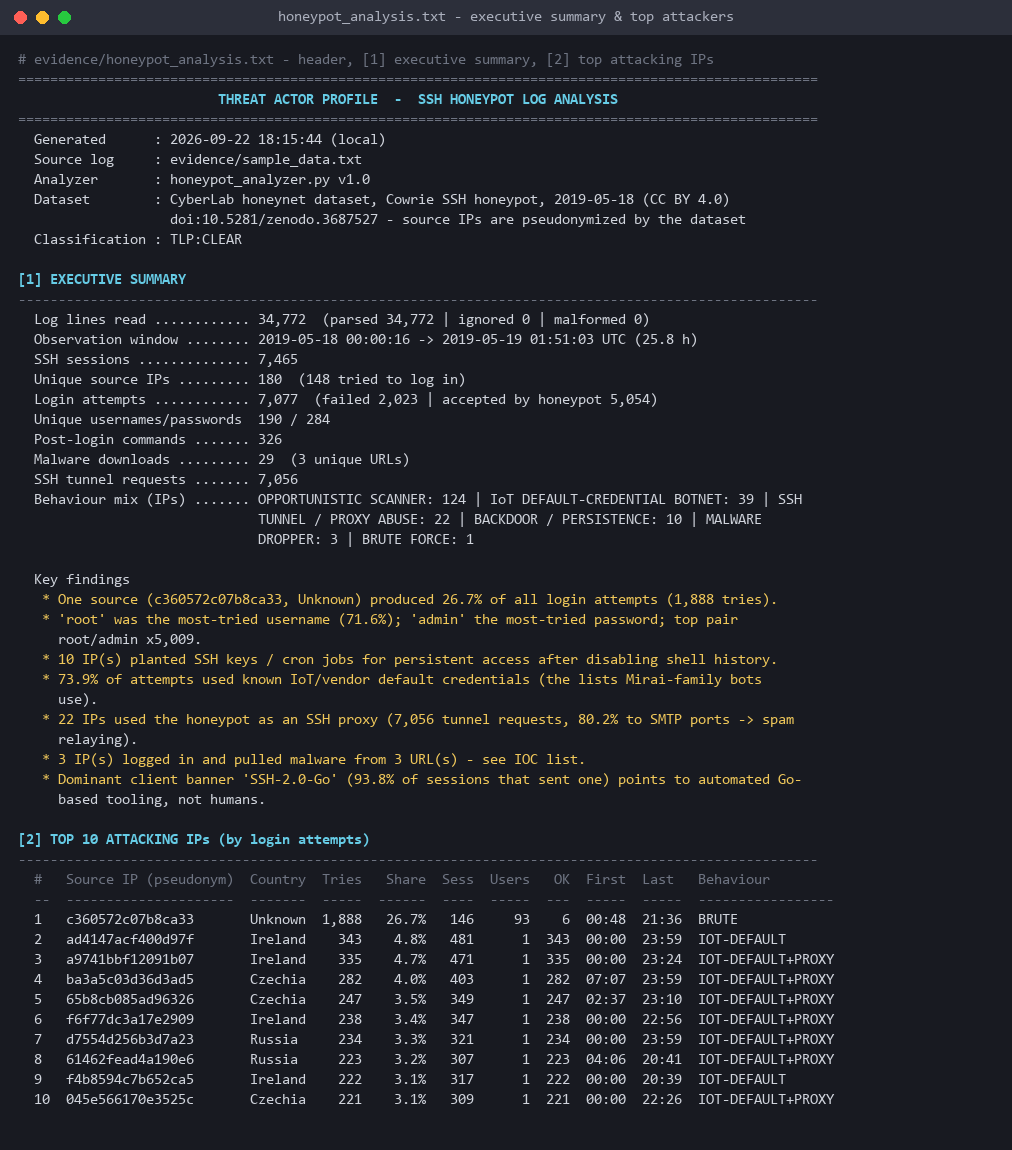
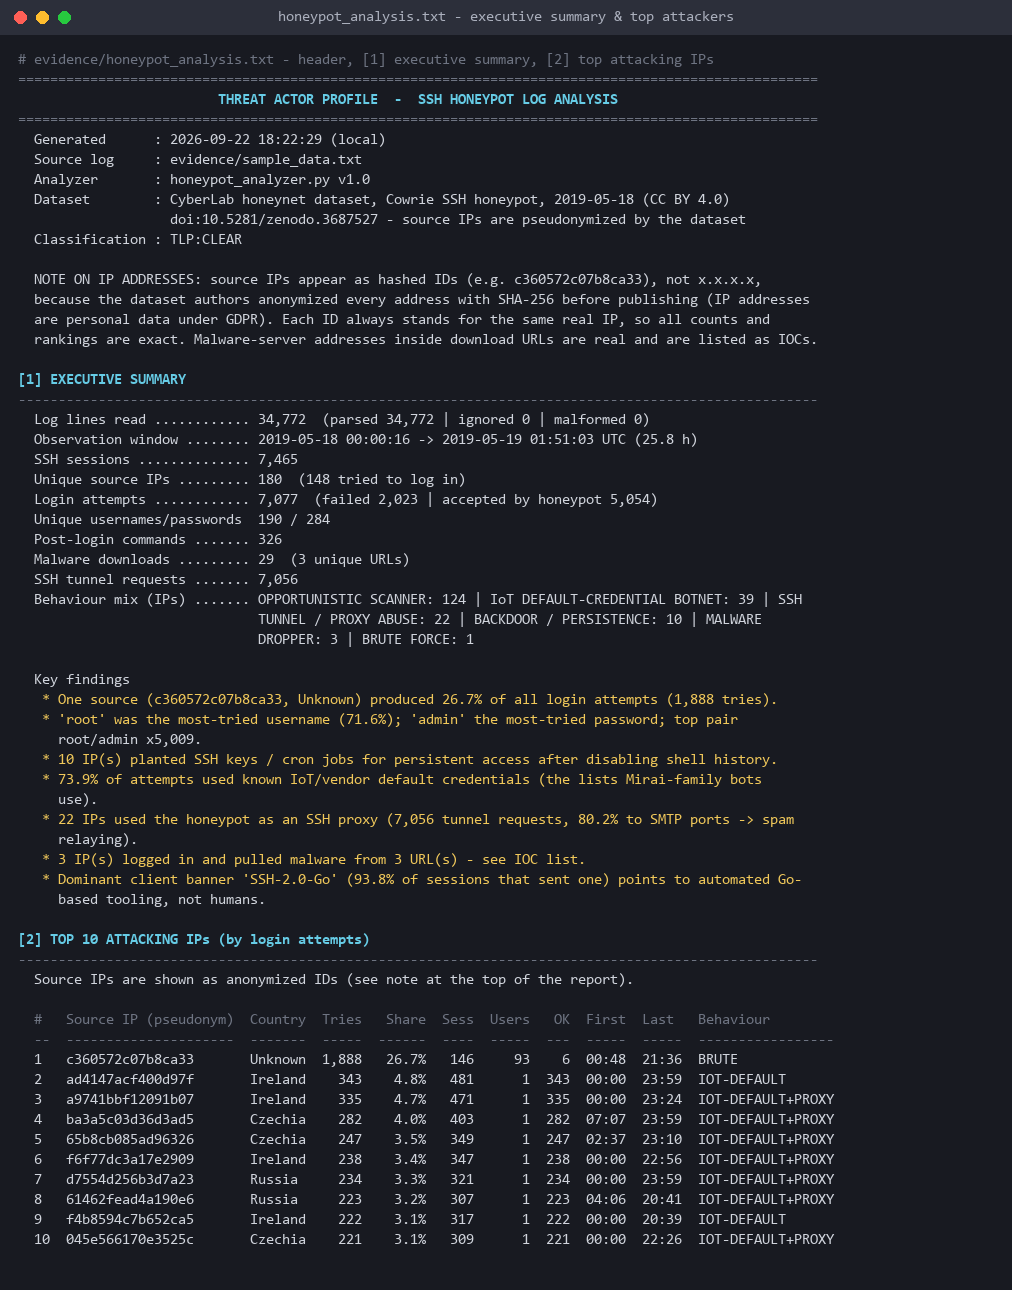
Explain anonymized source IPs in report, console and README
The CyberLab dataset hashes every source IP with SHA-256 (GDPR), so IPs show
as IDs like c360572c07b8ca33 instead of x.x.x.x. The analyzer now detects
hashed IDs and prints a note; real IPv4/IPv6 input shows no note.

Changed region(s): [[0.0, 0.0, 0.7964, 0.9739], [0.5208, 0.7609, 0.8271, 0.9739]]

diff --git a/src/honeypot_analyzer.py b/src/honeypot_analyzer.py
@@ -393,6 +393,11 @@ def counter_table(lines, title, counter, total, top, label, fmt=str):
     lines.append("")
 
 
+def looks_like_ip(value):
+    """True for a dotted IPv4 or an IPv6 address, False for a hashed pseudonym."""
+    return bool(re.fullmatch(r"\d{1,3}(\.\d{1,3}){3}|[0-9A-Fa-f:]*:[0-9A-Fa-f:.]+", value))
+
+
 def when(ts):
     return ts.strftime("%Y-%m-%d %H:%M:%S")
 
@@ -431,6 +436,14 @@ def build_report(events, stats, actors, campaigns, src, top):
     L.append("  Dataset        : CyberLab honeynet dataset, Cowrie SSH honeypot, 2019-05-18 (CC BY 4.0)")
     L.append("                   doi:10.5281/zenodo.3687527 - source IPs are pseudonymized by the dataset")
     L.append("  Classification : TLP:CLEAR")
+    if not looks_like_ip(events[0].ip):
+        L.append("")
+        L.extend(textwrap.wrap(
+            f"  NOTE ON IP ADDRESSES: source IPs appear as hashed IDs (e.g. {attackers[0].ip}), not "
+            "x.x.x.x, because the dataset authors anonymized every address with SHA-256 before "
+            "publishing (IP addresses are personal data under GDPR). Each ID always stands for the "
+            "same real IP, so all counts and rankings are exact. Malware-server addresses inside "
+            "download URLs are real and are listed as IOCs.", WIDTH, subsequent_indent="  "))
 
     # 1 ---------------------------------------------------------------
     section(L, "[1] EXECUTIVE SUMMARY")
@@ -483,6 +496,9 @@ def build_report(events, stats, actors, campaigns, src, top):
 
     # 2 ---------------------------------------------------------------
     section(L, f"[2] TOP {top} ATTACKING IPs (by login attempts)")
+    if not looks_like_ip(attackers[0].ip):
+        L.append("  Source IPs are shown as anonymized IDs (see note at the top of the report).")
+        L.append("")
     rows = []
     for i, a in enumerate(attackers[:top], 1):
         rows.append((i, a.ip, a.country[:14], f"{a.attempts:,}", pct(a.attempts, total_attempts),
@@ -728,6 +744,9 @@ def console_summary(stats, actors, report_path, top=5):
              f"{stats['lines']:,}", f"{stats['parsed']:,}", stats["ignored"], stats["malformed"])
     log.info("%s login attempts from %d IPs", f"{total:,}", len(attackers))
     log.info("")
+    if attackers and not looks_like_ip(attackers[0].ip):
+        log.info("Note: source IPs are anonymized IDs (SHA-256 by the dataset authors), not x.x.x.x")
+        log.info("")
     log.info("TOP ATTACKING IPs           TOP USERNAMES          TOP PASSWORDS")
     ips = [f"{a.ip} {a.attempts:>5,}" for a in attackers[:top]]
     us = [f"{(u or '<empty>')[:14]:<14} {n:>5,}" for u, n in users.most_common(top)]

diff --git a/README.md b/README.md
@@ -14,6 +14,9 @@ The results are written to a **Threat Actor Profile** report, [`evidence/honeypo
 The input is **real attacker traffic**, not made-up data: one day (2019-05-18) of the public, citable [CyberLab honeynet dataset](https://doi.org/10.5281/zenodo.3687527), captured by Cowrie SSH honeypots. It holds 34,772 events, 7,077 login attempts and 180 source IPs.
 
 - **Focus:** threat intelligence, log analysis, attacker profiling
+
+> **Why do the IPs look like `c360572c07b8ca33` instead of `x.x.x.x`?**
+> The dataset authors anonymized every source IP with SHA-256 before publishing it, because IP addresses count as personal data under EU privacy law (GDPR). Each ID always stands for the same real IP, so every count and ranking is exact; only the address itself is hidden. Run the analyzer on your own Cowrie `cowrie.json` and the same report shows normal `x.x.x.x` addresses. The report prints this note too.
 - **Language:** Python 3.8+, **standard library only**
 
 ![Analyzer run](screenshots/02_output.png)
